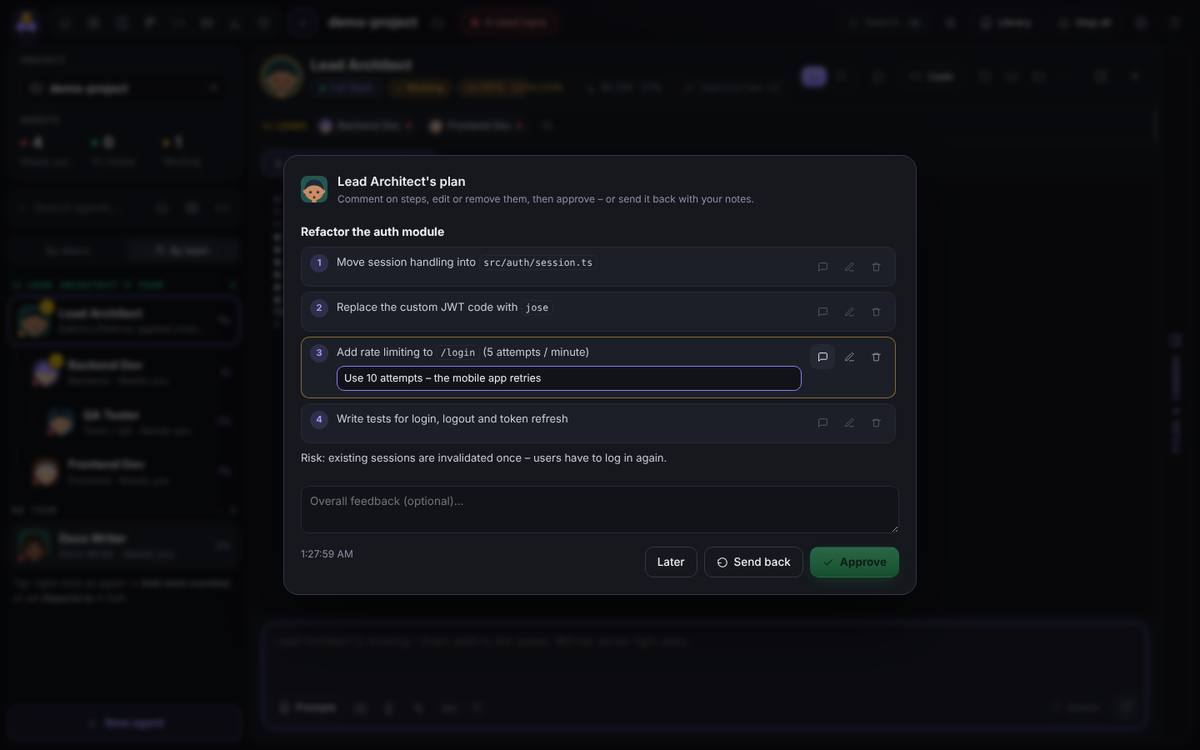
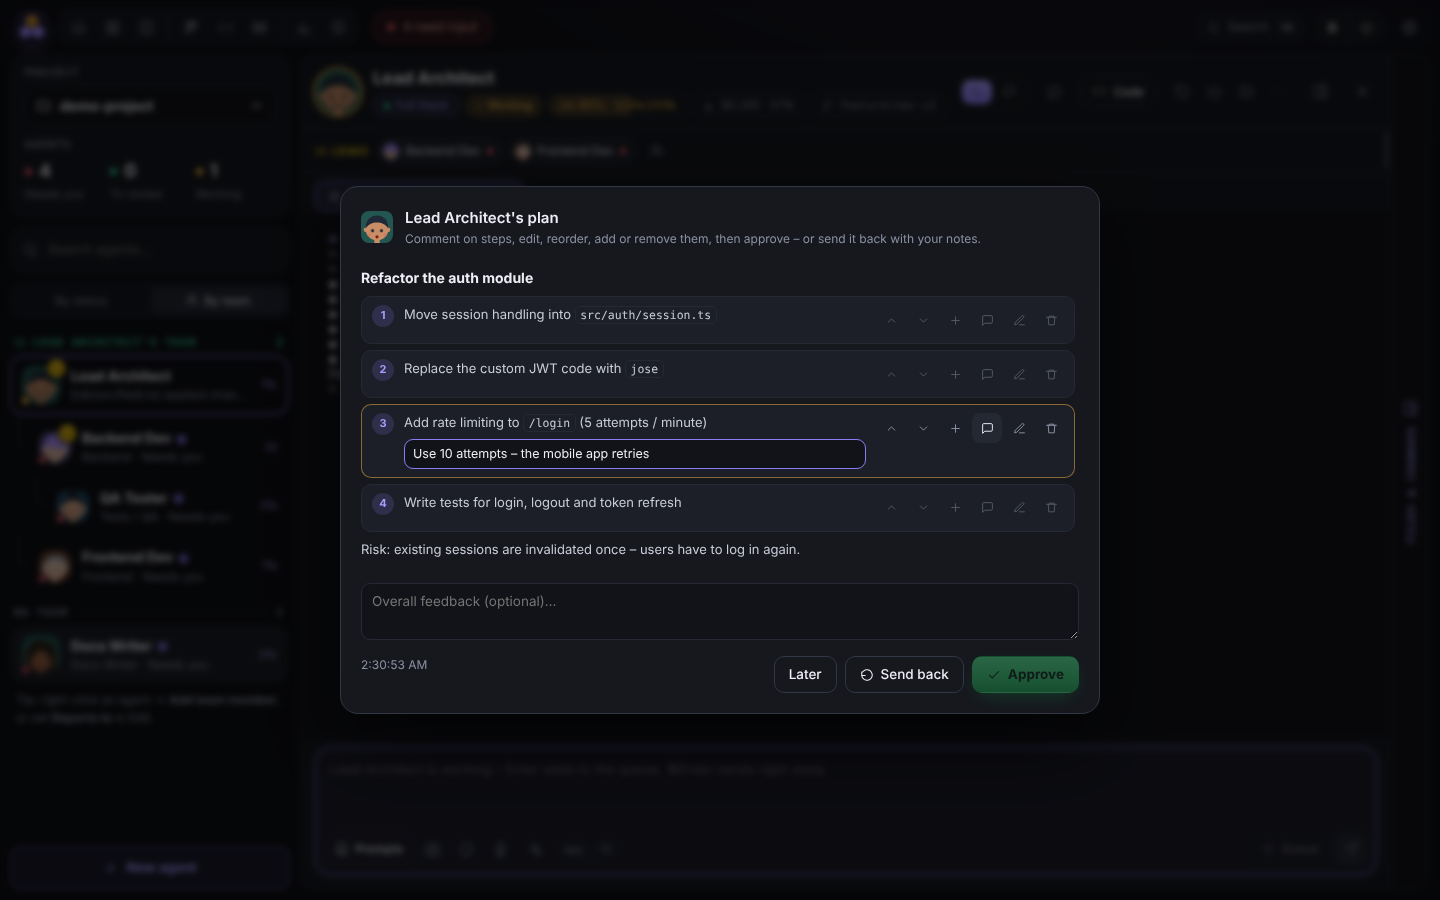
docs: new screenshots (pixel office, new header) and captions
Claude-Session: https://claude.ai/code/session_01JfQJkDe4SvPCHjX8Yhda88

Changed region(s): [[0.37, 0.2453, 0.6783, 0.276], [0.2467, 0.736, 0.3083, 0.7667], [0.6167, 0.46, 0.6475, 0.4907]]

diff --git a/README.md b/README.md
@@ -10,7 +10,7 @@ and watch them work together in a little office.
 
 macOS · Windows · Linux &nbsp;·&nbsp; Electron + React + TypeScript &nbsp;·&nbsp; MIT
 
-<img src="docs/screenshots/office.png" width="900" alt="Hive – the office view">
+<img src="docs/screenshots/office.png" width="900" alt="Hive – the pixel-art office view">
 
 </div>
 
@@ -38,12 +38,12 @@ extra account: your Claude / OpenAI subscription or API key stays with the CLI.
 
 <table>
 <tr>
-<td><img src="docs/screenshots/chat.png" alt="Conversation view"><br><sub><b>Conversation view</b> – a Claude Code session as a chat, with context meter</sub></td>
+<td><img src="docs/screenshots/chat.png" alt="Conversation view"><br><sub><b>Conversation view</b> – a Claude Code, Codex or Gemini session as a chat, with context meter and read-aloud</sub></td>
 <td><img src="docs/screenshots/review.png" alt="Review"><br><sub><b>Vibe review</b> – notes per file, send back or approve (commit + merge)</sub></td>
 </tr>
 <tr>
-<td><img src="docs/screenshots/board.png" alt="Backlog"><br><sub><b>Backlog</b> – cards hand work to agents as they move</sub></td>
-<td><img src="docs/screenshots/plan.png" alt="Plan review"><br><sub><b>Plan review</b> – comment, edit or remove steps before any code is written</sub></td>
+<td><img src="docs/screenshots/board.png" alt="Backlog"><br><sub><b>Backlog</b> – cards hand work to agents as they move; auto-pick and tracker imports</sub></td>
+<td><img src="docs/screenshots/plan.png" alt="Plan review"><br><sub><b>Plan review</b> – comment, edit, reorder, add or remove steps before any code is written</sub></td>
 </tr>
 <tr>
 <td><img src="docs/screenshots/split.png" alt="Split view"><br><sub><b>Split view</b> – several agents side by side, each with a message queue</sub></td>
